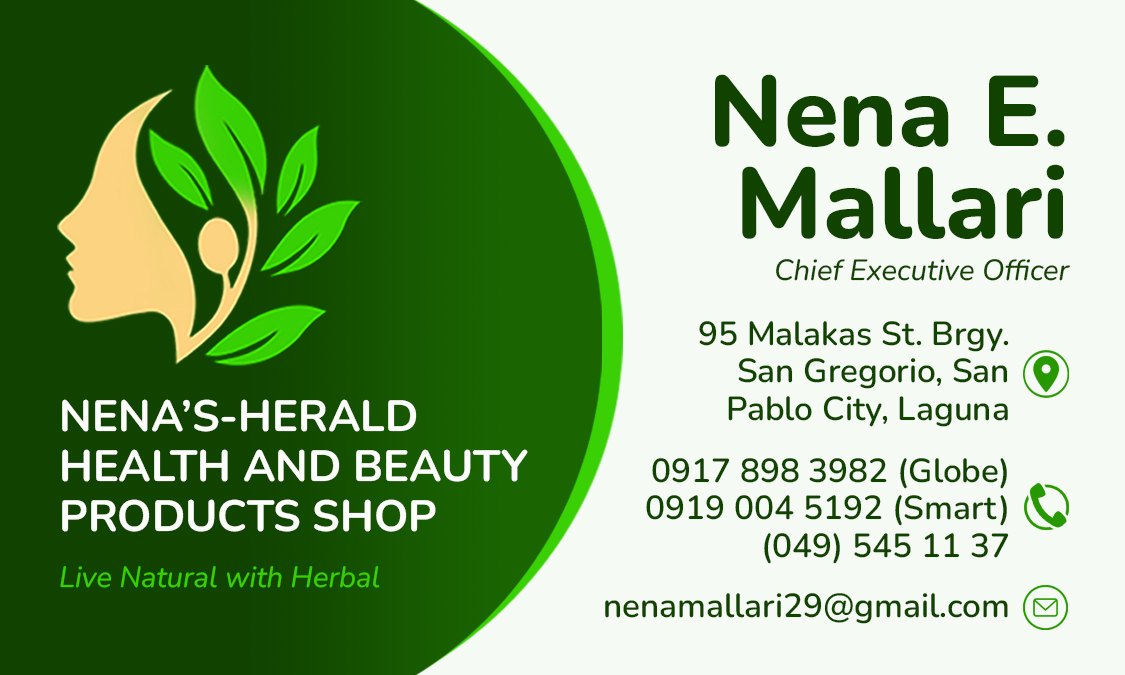
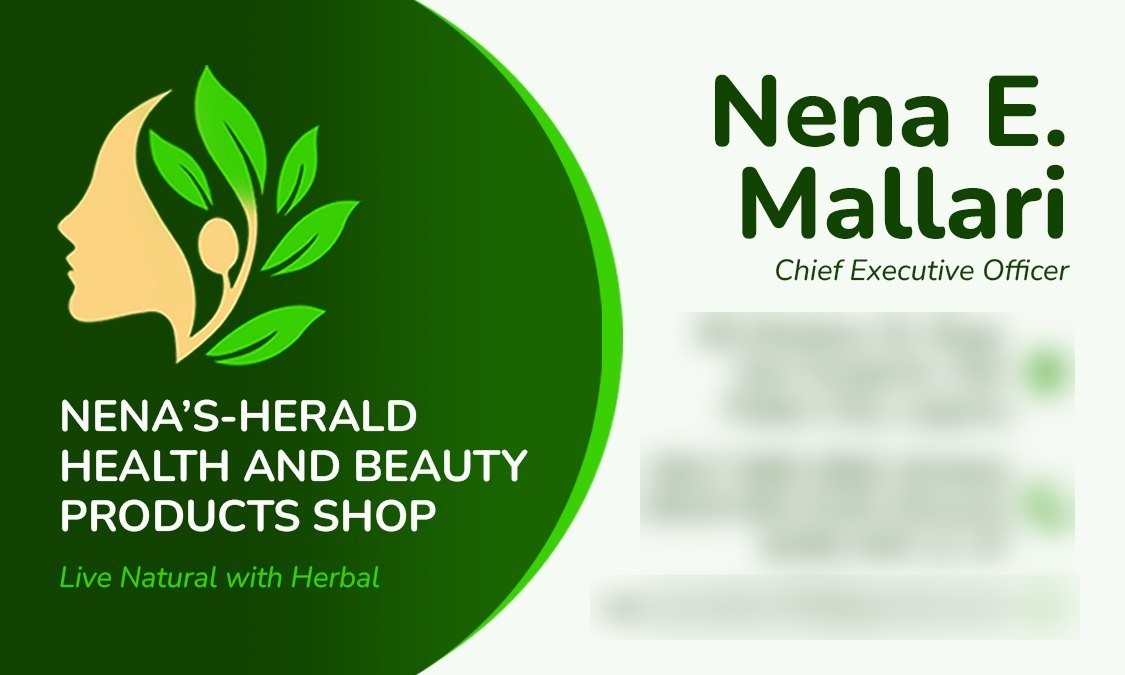
Privacy fixes, AXA project, link previews and caption cleanup
- Remove the private wedding album; blur phone numbers, emails and
  addresses on the calling cards
- Fill the AXA project with 18 pieces (posters, recruitment ads, blank
  award templates, team logos); certificates naming advisors are left out
- Add an Open Graph / Twitter preview image (scripts/make-og-image.mjs)
  and canonical URLs
- Name the three saint quote posts, fix caption spellings, set the bird
  calendar year to when it was made (2021)

Changed region(s): [[0.5289, 0.4356, 0.9644, 0.9333]]

diff --git a/src/data/projects.ts b/src/data/projects.ts
@@ -59,6 +59,7 @@ function rgbToHsl(r: number, g: number, b: number): [number, number, number] {
 const spellings: Record<string, string> = {
   tesda: 'TESDA', bir: 'BIR', pcx: 'PCX', cvsu: 'CvSU', smith: 'SMITH', ph: 'PH', mcearly: 'McEarly',
   balwik: 'BALWIK', nhers: "Nher's", ivys: "Ivy's", sofias: "Sofia's", wencys: "Wency's", st: 'St.',
+  pvi: 'PVI', axa: 'AXA', de: 'de', la: 'la', lifepeaks: 'LifePeaks', shinsures: 'SHInsures', dont: "Don't",
 };
 
 // "05-cover-story.jpg" -> "Cover Story". Rename a file to change its caption.
@@ -248,7 +249,7 @@ const all: Project[] = [
     title: 'Philippine Birds Calendar',
     client: 'Private client',
     category: 'Calendar Design',
-    year: '2022',
+    year: '2021',
     role: 'Graphic Designer',
     tools: ['Photoshop', 'InDesign'],
     summary: 'A 2022 wall calendar featuring a different native Philippine bird each month.',
@@ -273,21 +274,6 @@ const all: Project[] = [
     ],
   },
   {
-    slug: 'wedding-album',
-    group: 'print',
-    title: 'Corpuz–Aguda Nuptials',
-    client: 'Private client',
-    category: 'Photo Album Design',
-    year: '2019',
-    role: 'Album Designer',
-    tools: ['Photoshop'],
-    summary: 'An 8×10 wedding album with a soft, editorial layout built around angled photo panels.',
-    description: [
-      'A 40-page printed wedding album that follows the day in order: preparation, the bride and groom, the procession, the ceremony and the reception.',
-      'A restrained palette of whites and dusty blues, angled photo panels and serif chapter titles keep a large set of photos calm and readable.',
-    ],
-  },
-  {
     slug: 'asean-times-magazine',
     group: 'editorial',
     title: 'ASEAN Times Magazine',
@@ -305,15 +291,16 @@ const all: Project[] = [
   {
     slug: 'social-media-posters',
     group: 'social',
-    title: 'AXA Insurance Posters',
-    client: 'AXA Insurance',
-    category: 'Social Media Design',
+    title: 'AXA Advisor Team Marketing',
+    client: 'LifePeaks Heaven · AXA Philippines advisor team',
+    category: 'Social Media & Branding',
     year: '2019 – 2021',
     role: 'Marketing Graphic Designer',
     tools: ['Photoshop', 'Illustrator', 'Canva'],
-    summary: 'Weekly social media posters and certificates over a two-year remote partnership.',
+    summary: 'Weekly social media posters, recruitment ads, award templates and team logos for an AXA advisor team.',
     description: [
-      'Produced weekly social media posters and certificates for AXA Insurance services and client events over a two-year remote partnership.',
+      'Over a two-year remote partnership, produced the weekly social media content for an AXA Philippines advisor team: financial-literacy and insurance posters in English and Filipino, recruitment ads, and award certificates for top advisors.',
+      'Also designed the team identities, LifePeaks Heaven, LifePeaks Capital and SHInsures, and built reusable award templates so new certificates could be made quickly each month. Award certificates naming individual advisors are left out here for their privacy.',
     ],
   },
   {
